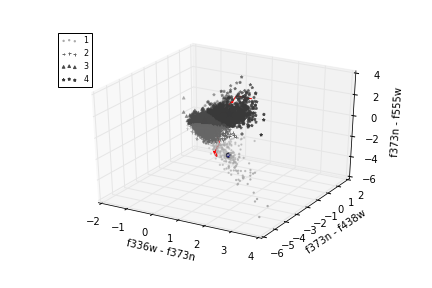
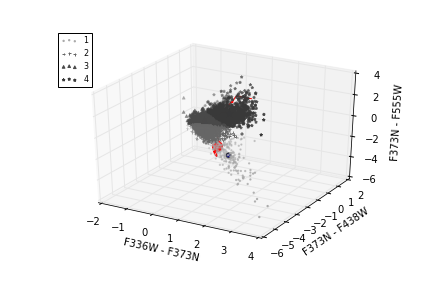
More plotting and table

diff --git a/Code/clustering_plots.py b/Code/clustering_plots.py
@@ -23,10 +23,10 @@ base2 = 5
 b_wave = 3
 
 # Dictionary for plot formatting
-band_names = {'mag05_225':'f225w', 'mag05_336':'f336w', 'mag05_373':'f373n',
-              'mag05_438':'f438w', 'mag05_487':'f487n', 'mag05_502':'f502n',
-              'mag05_555':'f555w', 'mag05_657':'f657n', 'mag05_673':'f673n',
-              'mag05_814':'f814w'}
+band_names = {'mag05_225':'F225W', 'mag05_336':'F336W', 'mag05_373':'F373N',
+              'mag05_438':'F438W', 'mag05_487':'F487N', 'mag05_502':'F502N',
+              'mag05_555':'F555W', 'mag05_657':'F657N', 'mag05_673':'F673N',
+              'mag05_814':'F814W'}
 symbol = ['.', '+', '^', '*', 'o', '>', '<']
 size = 7
 '''-------------------------------------------------------------------------'''
@@ -295,6 +295,10 @@ def make_3d_plots(c1, c2, c3, bands, n_clust, alg, c_data, centers,
     # Plot model colours
     ax1.plot(model_data[0] - model_data[1], model_data[2] - model_data[3],
              model_data[4] - model_data[5], color='r')
+    ax1.scatter(model_data[0][0] - model_data[1][0],
+                model_data[2][0] - model_data[3][0],
+                model_data[4][0] - model_data[5][0], color='r',
+                marker='o', s=100, zorder=2)
     # Format plot
     ax1.set_xlabel(band_names[bands[0]] + ' - ' + band_names[bands[1]])
     ax1.set_ylabel(band_names[bands[2]] + ' - ' + band_names[bands[3]])
@@ -327,6 +331,9 @@ def make_3d_plots(c1, c2, c3, bands, n_clust, alg, c_data, centers,
     # Plot model colours
     ax2.plot(model_data[base1] - model_data[base2],
              model_data[0] - model_data[1], color='r')
+    ax2.scatter(model_data[base1][0] - model_data[base2][0],
+                model_data[0][0] - model_data[1][0], color='r',
+                marker='o', s=100, zorder=2)
     # Format Plot
     ax2.xaxis.set_major_locator(plt.MultipleLocator(1.0))
     ax2.set_ylabel(band_names[bands[0]] + ' - ' + band_names[bands[1]])
